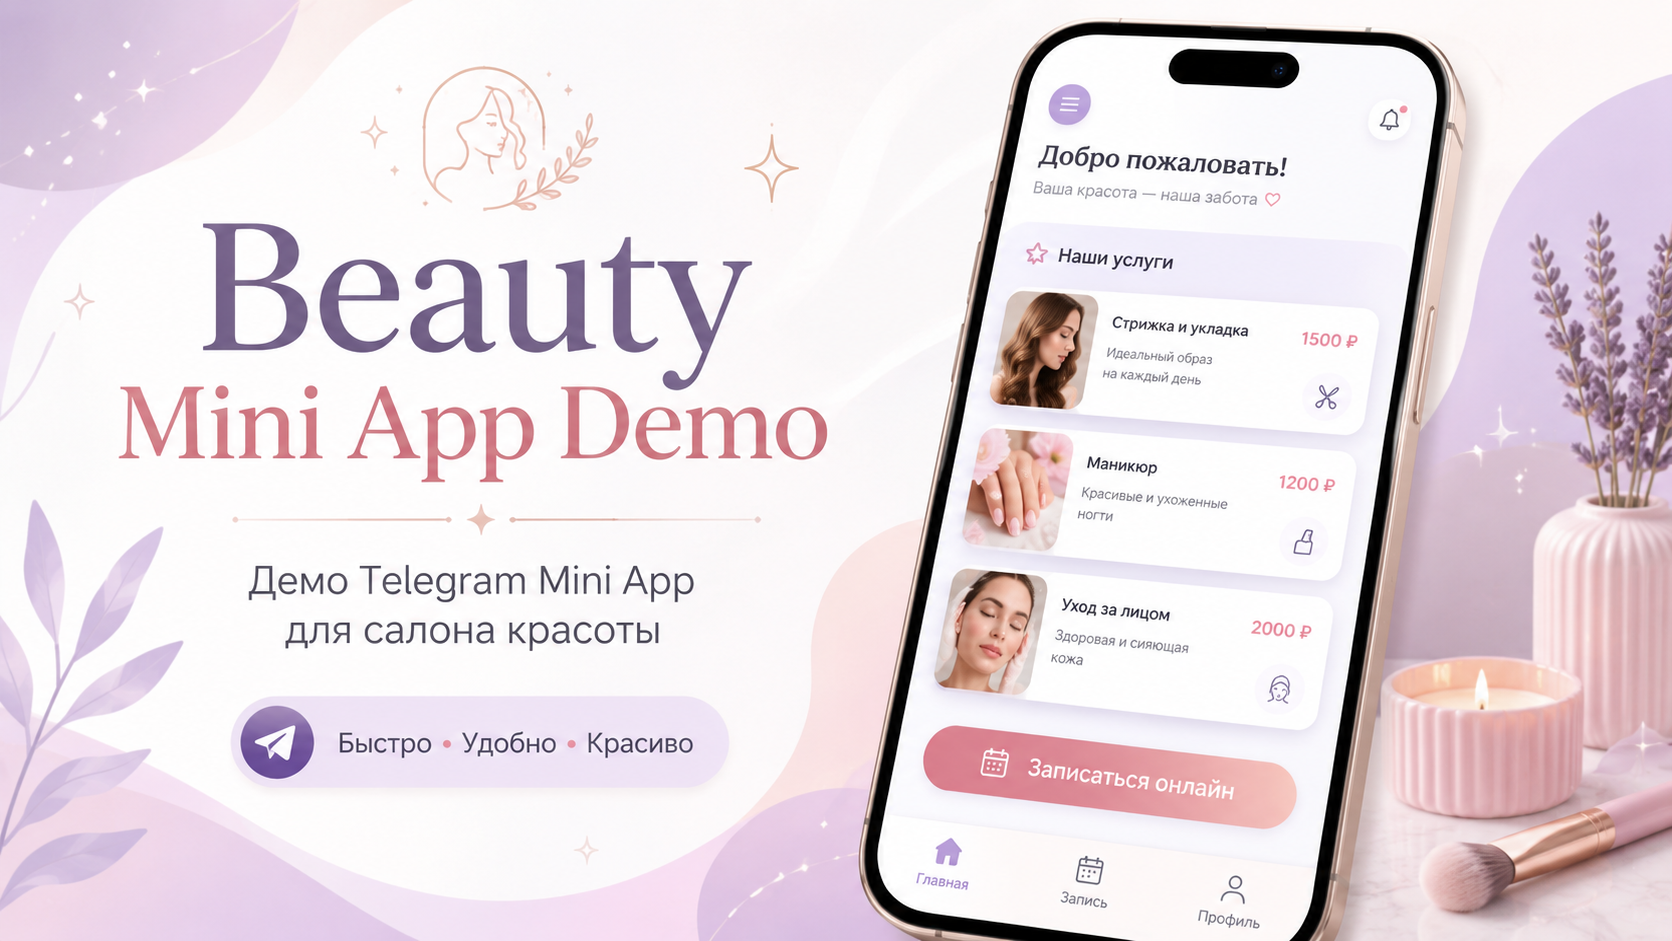
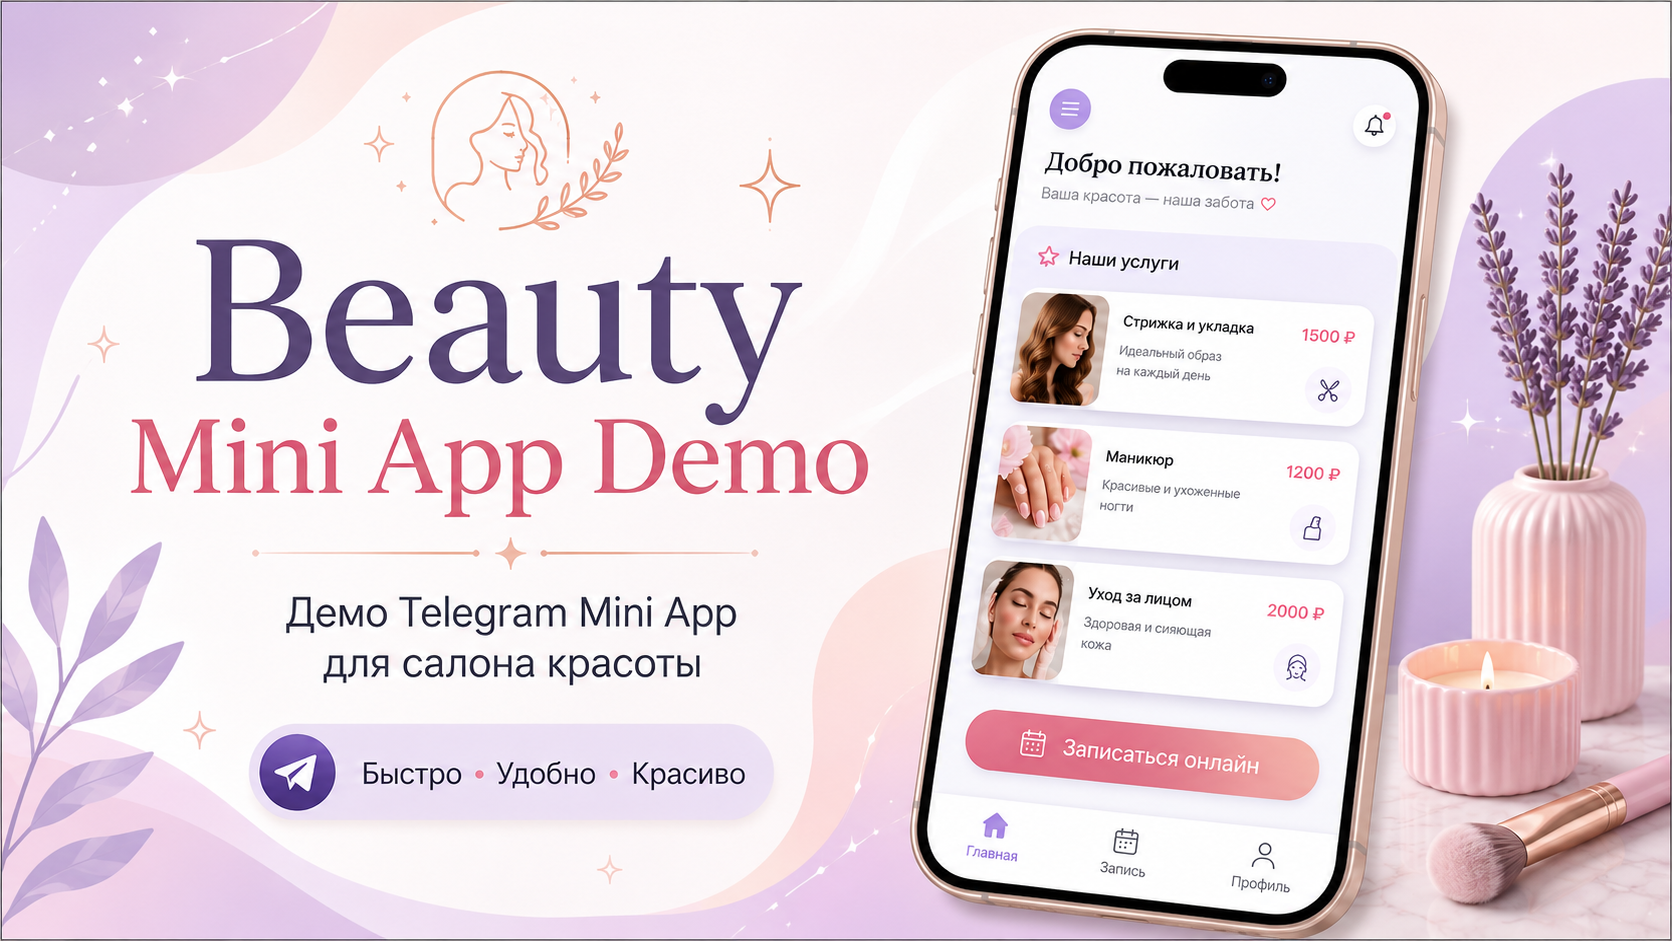
update bot

diff --git a/web/app.js b/web/app.js
@@ -220,17 +220,17 @@ document.addEventListener("DOMContentLoaded", function () {
 
         if (submitButton) {
             submitButton.disabled = true;
-            submitButton.textContent = "Заявка отправляется...";
+            submitButton.textContent = "Заявка отправлена ✓";
         }
 
         if (tg.HapticFeedback) {
             tg.HapticFeedback.notificationOccurred("success");
         }
 
-        tg.showAlert("Заявка отправляется...");
+        tg.sendData(jsonData);
 
         setTimeout(function () {
-            tg.sendData(jsonData);
-        }, 500);
+            tg.close();
+        }, 700);
     });
 });

diff --git a/bot.py b/bot.py
@@ -58,9 +58,9 @@ WEB_DIR = BASE_DIR / "web"
 # =========================
 # ДЕМО-ХРАНИЛИЩЕ ЗАЯВОК
 # =========================
-# Важно: это временное хранилище в памяти.
-# Оно работает, пока Render-сервис не перезапущен.
-# Позже можно заменить на базу данных или Google Sheets.
+# Это временное хранилище в памяти.
+# После перезапуска Render заявки в памяти очищаются.
+# Для рабочей версии можно подключить Google Sheets / базу / CRM.
 
 REQUESTS = {}
 REQUEST_COUNTER = 0
@@ -123,7 +123,8 @@ def start_text() -> str:
     return (
         "Здравствуйте!\n\n"
         "Это демо Telegram Mini App для салона красоты.\n\n"
-        "Внутри можно посмотреть услуги, цены, акцию и отправить заявку.\n\n"
+        "Внутри можно посмотреть услуги, цены, акции, мастеров, FAQ "
+        "и отправить заявку на запись.\n\n"
         "Нажмите кнопку «Открыть Mini App» внизу чата."
     )
 
@@ -262,7 +263,7 @@ async def web_app_data_handler(update: Update, context: ContextTypes.DEFAULT_TYP
         f"Username: {telegram_username}\n"
         f"Telegram ID: {telegram_id}\n\n"
         "Статус: требуется подтверждение администратором\n"
-        "Источник: Beauty Mini App Demo"
+        "Источник: LAVANDA Beauty Studio Demo"
     )
 
     if ADMIN_CHAT_ID:
@@ -287,14 +288,14 @@ async def admin_callback_handler(update: Update, context: ContextTypes.DEFAULT_T
     if not query:
         return
 
-    await query.answer()
-
     if ADMIN_CHAT_ID and str(query.from_user.id) != str(ADMIN_CHAT_ID):
         await query.answer(
             "Эта кнопка доступна только администратору.",
             show_alert=True,
         )
         return
+
+    await query.answer()
 
     data = query.data or ""
 
@@ -330,11 +331,12 @@ async def admin_callback_handler(update: Update, context: ContextTypes.DEFAULT_T
         )
         return
 
-    name = request_data.get("name", "Не указано")
     service = request_data.get("service", "Не указано")
     master = request_data.get("master", "Любой мастер")
     visit_date = request_data.get("visit_date", "Не указано")
     preferred_time = request_data.get("preferred_time", "Не указано")
+
+    current_text = query.message.text if query.message else ""
 
     if action == "confirm_request":
         try:
@@ -353,8 +355,6 @@ async def admin_callback_handler(update: Update, context: ContextTypes.DEFAULT_T
                     "Если потребуется уточнение, администратор свяжется с вами."
                 ),
             )
-
-            current_text = query.message.text if query.message else ""
 
             await query.edit_message_text(
                 text=(
@@ -385,8 +385,6 @@ async def admin_callback_handler(update: Update, context: ContextTypes.DEFAULT_T
                     "Пожалуйста, ожидайте сообщение или звонок."
                 ),
             )
-
-            current_text = query.message.text if query.message else ""
 
             await query.edit_message_text(
                 text=(